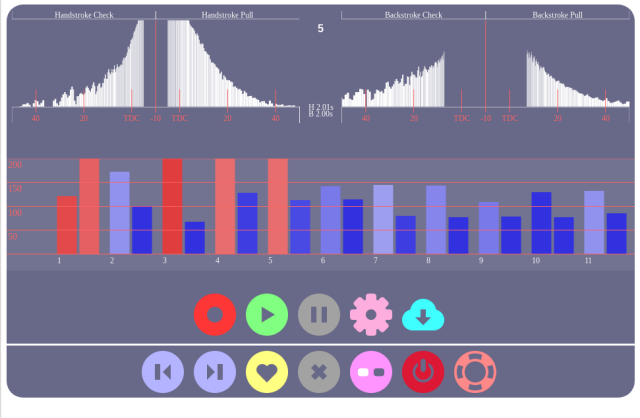
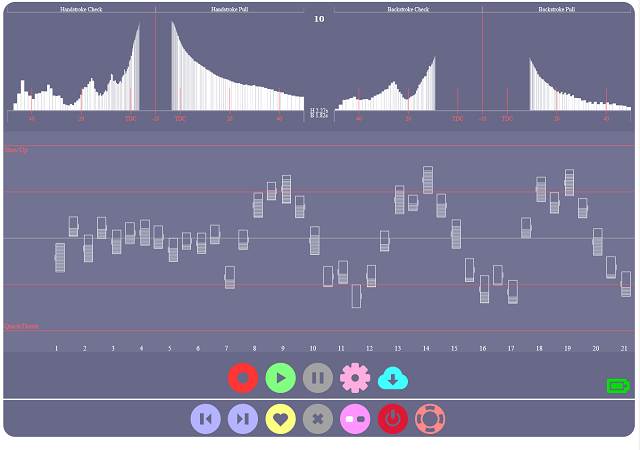
Updates and images

diff --git a/bellboy.js b/bellboy.js
@@ -475,7 +475,7 @@ function parseResult(dataBack) {
 
 ws.onclose = function(event){
     wsOpened=false;
-    setStatus("Error. Resetting device. Please press refresh.");
+    setStatus("Error. Please close any other Bell-Boy windows and press refresh.");
     if ((currentStatus & RECORDINGSESSION) != 0 ) {
         currentStatus &= ~RECORDINGSESSION;
         updateIcons();
@@ -1328,7 +1328,7 @@ function fillDiagnosticsModal(){
     ctxDiagnostics.stroke();
 
     for(i=0;i<sample.length;++i){
-        if(sample[i][3] == 1 || sample[i][4] == 3){
+        if(sample[i][3] == 1 || sample[i][3] == 3){
             if(!document.getElementById('diagHand').checked) continue;
             ctxDiagnostics.beginPath();
             if(sample[i][3] == 1){
@@ -1341,7 +1341,7 @@ function fillDiagnosticsModal(){
             ctxDiagnostics.lineTo(45+(sample[i][0])*2,175);
             ctxDiagnostics.lineTo(40+(sample[i][0])*2,180);
             ctxDiagnostics.stroke();
-        } else if(sample[i][3] == 2 || sample[i][4] == 4){
+        } else if(sample[i][3] == 2 || sample[i][3] == 4){
             if(!document.getElementById('diagBack').checked) continue;
             ctxDiagnostics.beginPath();
             if(sample[i][3] == 2){

diff --git a/grabber/grabber.c b/grabber/grabber.c
@@ -198,6 +198,9 @@ struct {
     unsigned int lastBDC;
     unsigned int manualStrike;
     unsigned int manualTimefromBDC;
+    unsigned int lastStrike; // 2 = last chime was at backstroke, 1= last chime at handstroke
+    unsigned int strikeValue; // 0 = nothing, 1=handstroke, 2=backstroke, 3=fake handstroke, 4=fake backstroke
+    unsigned int strikeHead; 
     unsigned int bellNumber;
     float CPM;
     float openHandstroke;
@@ -208,7 +211,8 @@ struct {
                     .gyroTransformMatrix[1]=0, .gyroTransformMatrix[2]=0, .gyroTransformMatrix[3]=0, .gyroTransformMatrix[4]=1,
                     .gyroTransformMatrix[5]=0, .gyroTransformMatrix[6]=0, .gyroTransformMatrix[7]=0, .gyroTransformMatrix[8]=1,
                     .tareValue = 0.0 , .torn = 0, .gravityValue = 0.0, .gravityCalibrationState = 0, .gravityDataCount = 0, 
-                    .stable = 0, .bellNumber = 6, .CPM = 31.0, .openHandstroke = 1.0, .manualStrike = 0, .manualTimefromBDC = 300};
+                    .stable = 0, .bellNumber = 6, .CPM = 31.0, .openHandstroke = 1.0, .manualStrike = 0, .manualTimefromBDC = 300, 
+                    .lastStrike = 2, .strikeValue = 0};
 
 // only really important when run from command line
 volatile sig_atomic_t sig_exit = 0;
@@ -220,7 +224,7 @@ void sig_handler(int signum) {
 
 // used in relation to circular buffer
 #define PUSHBATCH 20 // number of samples taken before pushing out
-#define BUFFERSIZE 256 // must be bigger than PUSHBATCH + SAVGOLLENGTH
+#define BUFFERSIZE 512 // must be bigger than interval betwwen strikes
 unsigned int head;
 unsigned int tail;
 unsigned int available;
@@ -395,8 +399,8 @@ int main(int argc, char const *argv[]){
                     continue;
                 }
                 OUT_COUNT = 0;
-                calibrationData.lastStrikeCount = 0;
-                calibrationData.lastBDC = 0;
+                calibrationData.lastStrikeCount = 0; 
+                calibrationData.lastBDC = 1000000; // just a random large number until first BDC is recorded
                 startRun();
                 continue;
             }
@@ -580,6 +584,7 @@ void pushData(void){
     static int nudgeCount = 0;
     static int switchCount = 0;
     float taccn;
+    char detailsString[32]; 
 
     pullData();
     pullData(); // call a second time to catch any fresh samples that arrived during processing of the first round
@@ -619,8 +624,6 @@ void pushData(void){
         accn = taccn;
         float raccn = accn - calibrationData.gravityValue*sin(angleBuffer[tail]*DEGREES_TO_RADIANS_MULTIPLIER);
         
-        unsigned int strike = dingDong(tail); // check to see if there has been a bell strike 1=ding(HS), 2=dong(BS) 0=nowt
-
         if(rateBuffer[tail] * rateBuffer[lastTail] <= 0.0 && switchCount == 0 && OUT_COUNT > 10) { // detect when bell changes direction
             data = 7;
             value = OUT_COUNT;
@@ -628,8 +631,9 @@ void pushData(void){
         } 
         if (switchCount != 0 && abs(rateBuffer[tail]) > 100.0) switchCount -= 1;
 
-        if(strike > 0 && strike <= 5){
-            data = strike;
+        if(calibrationData.strikeHead == tail && calibrationData.strikeValue){ // dingDong recorded a strike about here
+            data = calibrationData.strikeValue;
+            calibrationData.strikeValue = 0;
             value = (float)(OUT_COUNT - calibrationData.lastStrikeCount)/ODR; // number of seconds since last strike.
             calibrationData.lastStrikeCount = OUT_COUNT;
         }
@@ -637,27 +641,37 @@ void pushData(void){
         if(OUT_COUNT == 0){ // first line of output will show the gravity calibration value
             value = calibrationData.gravityValue;
             data = 9;
+            strcpy(detailsString, ", #Gravity");
         }
         
         if(OUT_COUNT == 1){ // second line of output shows the requested number of bells
             value = calibrationData.bellNumber;
             data = 9;
+            strcpy(detailsString, ", #Number of Bells");
         }
 
         if(OUT_COUNT == 2){ // third line of output will show the requested CPM
             value = calibrationData.CPM;
             data = 9;
+            strcpy(detailsString, ", #CPM");
         }
         
         if(OUT_COUNT == 3){ // fourth line of output shows the requested open handstoke adjustment
             value = calibrationData.openHandstroke;
             data = 9;
+            strcpy(detailsString, ", #Open Handstroke Factor");
         }
 
         if(OUT_COUNT == 4){ // fifth line of output shows the requested manual chime status (0=auto 1= manual)
             value = calibrationData.manualTimefromBDC;
             data = 9;
+            strcpy(detailsString, ", #Strike time from BDC");
         }
+
+        if(OUT_COUNT == 5){ // clear details
+            strcpy(detailsString, "");
+        }
+
       
         sprintf(remote_outbuf_line, "LIVE:A:%+6.1f,R:%+6.1f,C:%+7.1f,D:%d,V:%+10.2f\n", angleBuffer[tail], rateBuffer[tail], raccn, data, value);
         if (remote_count + strlen(remote_outbuf_line) > (sizeof remote_outbuf -2)) {
@@ -666,7 +680,7 @@ void pushData(void){
         }
         
         remote_count += sprintf(&remote_outbuf[remote_count],remote_outbuf_line);     
-        sprintf(local_outbuf_line,"A:%+6.1f,R:%+6.1f,C:%+7.1f,D:%d,V:%+10.2f\n", angleBuffer[tail], rateBuffer[tail], raccn, data, value);
+        sprintf(local_outbuf_line,"A:%+6.1f,R:%+6.1f,C:%+7.1f,D:%d,V:%+10.2f %s\n", angleBuffer[tail], rateBuffer[tail], raccn, data, value, detailsString);
         if (local_count + strlen(local_outbuf_line) > (sizeof local_outbuf -2)) {
             fputs(local_outbuf, fd_write_out);
             fflush(fd_write_out);
@@ -837,6 +851,7 @@ float pullAndTransform(){
         // This function calculates angles and a quaternion from the gyro and accelerometer measurements. The q0, q1,q2,q3, roll, pitch and yaw globals
         // are updated by this function (hence no return value)
         calculate(fifoData[3],fifoData[4],fifoData[5], fifoData[0],fifoData[1],fifoData[2],calibrationData.samplePeriod);
+        if(RUNNING && !calibrationData.manualStrike) dingDong(fifoData[3]);
     }
     return(fifoData[3]);  // Just "x" gyro rate needed by the calling function (pullData).
 }
@@ -880,38 +895,43 @@ float calculateError(float guess){
 // Quite a a bit of experimentation here.  The function works out a base level
 // volatility (rate of change of acceleration) of the bell system and when 
 // this jumps suddenly (by 1.7x), a strike is recorded.
-// Tested on heavy and light bells and produces sane and consistent results +- 20ms or so
-// averging these could produce a half-decent odd-struckness meter.
+// Tested on heavy and light bells and produces sane and consistent results +- 20ms or so.
 // Need to test on plain bearing bells
 
-unsigned int dingDong(unsigned int currentPosition){
-    static int lastStrike = 2; // 2 = last chime was at backstroke, 1= last chime at handstroke 
+void dingDong(float currentRate){
     static float rollingValues[5] = {8,8,8,8,8};
+    static float rollingRates[5] = {0.0,0.0,0.0,0.0,0.0};
     static unsigned int rollingPosition = 0;
-    static float baseSD = 0.0; 
-    if(calibrationData.manualStrike){ // doing manual chimes (eg clapper tied)
-        if(((currentPosition - calibrationData.lastBDC)/ODR) > (calibrationData.manualTimefromBDC/1000.0)){
-            if((lastStrike == 1) && (angleBuffer[currentPosition] < 160) && (rateBuffer[currentPosition] < -20)){
-                lastStrike = 2;
-                return(2);
-            }
-            if((lastStrike == 2) && (angleBuffer[currentPosition] > 200) && (rateBuffer[currentPosition] > 20)){
-                lastStrike = 1;
-                return(1);
-            }
-        }
-        return(0);
-    }
- 
+    static float baseSD = 0.0;
+    unsigned int lastHead = (head == 0) ? BUFFERSIZE-1 : head -1;
+
 // savgol_coeffs(5,2,deriv=2,use="dot")
     static float dingDongCoefficients[] = { 0.28571429, -0.14285714, -0.28571429, -0.14285714,  0.28571429 };
 
-    unsigned int windowStartPosition = (currentPosition < 2) ? (currentPosition + BUFFERSIZE) - 2 : currentPosition - 2;
+    if(calibrationData.manualStrike){ // doing manual chimes (eg clapper tied)
+        if(((lastHead - calibrationData.lastBDC)/ODR) > (calibrationData.manualTimefromBDC/1000.0)){
+            if((calibrationData.lastStrike == 1) && (angleBuffer[lastHead] < 160) && (rateBuffer[lastHead] < -20)){
+                calibrationData.lastStrike = 2;
+                calibrationData.strikeValue = 2;
+                calibrationData.strikeHead = lastHead;
+                return;
+            }
+            if((calibrationData.lastStrike == 2) && (angleBuffer[lastHead] > 200) && (rateBuffer[lastHead] > 20)){
+                calibrationData.lastStrike = 1;
+                calibrationData.strikeValue = 1;
+                calibrationData.strikeHead = lastHead;
+                return;
+            }
+        }
+        return;
+    }
+    
+    rollingRates[(rollingPosition + 2) % 5] = currentRate * direction;
     
     float savGolResult = 0;
     
     for(int i = 0; i < 5; ++i){
-        savGolResult += dingDongCoefficients[i] * rateBuffer[(windowStartPosition +i) % BUFFERSIZE];
+        savGolResult += dingDongCoefficients[i] * rollingRates[(rollingPosition + i) % 5];
     }
 
     savGolResult *= 50;
@@ -922,22 +942,24 @@ unsigned int dingDong(unsigned int currentPosition){
     float SD = sqrt(rollingValues[0]*rollingValues[0] + rollingValues[1]*rollingValues[1] + rollingValues[2]*rollingValues[2] + rollingValues[3]*rollingValues[3] + rollingValues[4]*rollingValues[4]);
     
     // calculate base level of volatility and apply a bit of smoothing
-    if(angleBuffer[currentPosition] > 100 && angleBuffer[currentPosition] < 260) baseSD = 0.8*baseSD + 0.2*SD;
-    
-    if((lastStrike == 1) && (SD > 1.7*baseSD) && (angleBuffer[currentPosition] < 70) && (rateBuffer[currentPosition] < 0)){
-        lastStrike = 2;
-        return(2);
-    } else if((lastStrike == 2) && (SD > 1.7*baseSD) && (angleBuffer[currentPosition] > 290) && (rateBuffer[currentPosition] > 0)) {
-        lastStrike = 1;
-        return(1);
-    } else if ((lastStrike == 1) && (angleBuffer[currentPosition] < 40) && (rateBuffer[currentPosition] < 0)){
-        lastStrike = 2;
-        return(4); // force a strike because not detected
-    } else if ((lastStrike == 2) && (angleBuffer[currentPosition] > 320) && (rateBuffer[currentPosition] > 0)){
-        lastStrike = 1;
-        return(3); // force a strike because not detected
+    if(angleBuffer[lastHead] > 100 && angleBuffer[lastHead] < 260) baseSD = 0.8*baseSD + 0.2*SD;
+    if((calibrationData.lastStrike == 1) && (SD > 1.7*baseSD) && (angleBuffer[lastHead] < 70) && (rateBuffer[lastHead] < -20)){
+        calibrationData.lastStrike = 2;
+        calibrationData.strikeValue = 2;
+        calibrationData.strikeHead = lastHead;
+    } else if((calibrationData.lastStrike == 2) && (SD > 1.7*baseSD) && (angleBuffer[lastHead] > 290) && (rateBuffer[lastHead] > 20)) {
+        calibrationData.lastStrike = 1;
+        calibrationData.strikeValue = 1;
+        calibrationData.strikeHead = lastHead;
+    } else if ((calibrationData.lastStrike == 1) && (angleBuffer[lastHead] < 40) && (rateBuffer[lastHead] < 0)){ // strike not detected, fake one
+        calibrationData.lastStrike = 2;
+        calibrationData.strikeValue = 4;
+        calibrationData.strikeHead = lastHead;
+    } else if ((calibrationData.lastStrike == 2) && (angleBuffer[lastHead] > 320) && (rateBuffer[lastHead] > 0)){ // strike not detected, fake one
+        calibrationData.lastStrike = 1;
+        calibrationData.strikeValue = 3;
+        calibrationData.strikeHead = lastHead;
     } 
-    return(0);
 }
 
 // Madgwick's implementation of the Mahony filter.

diff --git a/grabber/ICM20689.h b/grabber/ICM20689.h
@@ -86,4 +86,4 @@ uint16_t readFIFOcount();
 void pullData(void);
 float extractFloat(uint8_t index);
 float pullAndTransform(void);
-unsigned int dingDong(unsigned int startPosition);
+void dingDong(float currentRate);

diff --git a/README.md b/README.md
@@ -1,7 +1,7 @@
 # Bell-Boy
 NEW VERSION IMMINENT - THIS REPOSITORY CONTAINS A GREAT DEAL OF CODE AND INFORMATION IN FLUX BETWEEN VERSIONS SO SHOULD NOT BE RELIED UPON
 
-This repository contains the code for the Bell-Boy Project.  
+This repository contains the code and hardware design for the Bell-Boy Project.  
 
 The Bell-Boy is a device used to measure how hard a person pulls on a tower bell rope.  I hope it will be a useful training aid.  
 

diff --git a/updates/README.md b/updates/README.md
@@ -1,0 +1,3 @@
+# Bell-Boy Updates
+
+No updates yet.
